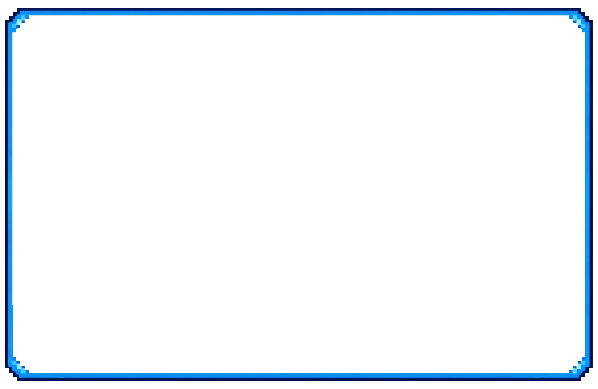
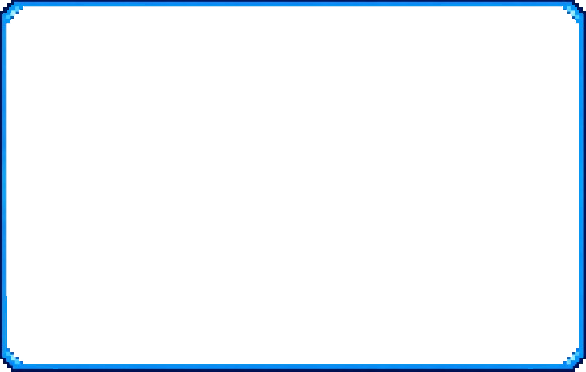
lore actualizado

Changed region(s): [[0.0, 0.0, 1.0, 1.0]]

diff --git a/src/es/deusto/ingenieria/proyecto/scape_room/gui/JDialogHistoria.java b/src/es/deusto/ingenieria/proyecto/scape_room/gui/JDialogHistoria.java
@@ -9,9 +9,13 @@ import java.awt.event.MouseEvent;
 import javax.swing.BorderFactory;
 import javax.swing.JButton;
 import javax.swing.JDialog;
+import javax.swing.JLabel;
 import javax.swing.JPanel;
 import javax.swing.JTextArea;
+import javax.swing.SwingConstants;
 
+import es.deusto.ingenieria.proyecto.scape_room.gui.components.BordePanelesMenu;
+import es.deusto.ingenieria.proyecto.scape_room.gui.components.BordeVentana;
 import es.deusto.ingenieria.proyecto.scape_room.gui.components.JBotonLore;
 
 public class JDialogHistoria extends JDialog{
@@ -31,7 +35,7 @@ public class JDialogHistoria extends JDialog{
 	};
 	private int textoActual = 0;
 	private JPanel textoFlotante;
-	private JTextArea info;
+	private JLabel info;
 	private JButton bAnterior;
 	private JButton bContinuar;
 	private JPanel panelBotones;
@@ -44,28 +48,29 @@ public class JDialogHistoria extends JDialog{
 		setLocationRelativeTo(null);
 		setResizable(false);
 		setModal(true); //hace que mientras salga esta pantalla las demas esten bloqueadas
+		setDefaultCloseOperation(DISPOSE_ON_CLOSE);
 		
 		//Crear ventana
 		textoFlotante = new JPanel(new BorderLayout());
-		textoFlotante.setBackground(Color.BLACK);
-		
-		textoFlotante.setBorder(BorderFactory.createEmptyBorder(60,10,10,10));
+		textoFlotante.setBackground(new Color(12,15,48));
+		textoFlotante.setBorder(new BordeVentana());
 		
 		//Añadir texto al centro de la ventana
-		info = new JTextArea();
-		info.setText(textoLore[textoActual]);
-		info.setFont(new Font("Consolas", Font.PLAIN, 15));
-		info.setBackground(Color.BLACK);
+		info = new JLabel();
+		info.setText("<html><center>" + textoLore[textoActual] + "</center></html>");
+		info.setFont(new Font("Consolas", Font.PLAIN, 17));
 		info.setForeground(Color.WHITE);
-		info.setEditable(false);
-		info.setLineWrap(true);
-		info.setWrapStyleWord(true);
-		info.setBorder(BorderFactory.createEmptyBorder(15, 15, 15, 15));
+
+		info.setHorizontalAlignment(SwingConstants.CENTER);
+		info.setVerticalAlignment(SwingConstants.CENTER);
+		info.setBorder(BorderFactory.createEmptyBorder(15, 20, 15, 20));
+
 		textoFlotante.add(info, BorderLayout.CENTER);
 		
 		//Añadir botones
 		bAnterior = new JBotonLore("anterior");
 		bContinuar = new JBotonLore("continuar");
+		bAnterior.setVisible(false);
 		
 		panelBotones = new JPanel(new BorderLayout());
 		panelBotones.add(bAnterior, BorderLayout.WEST);
@@ -90,9 +95,10 @@ public class JDialogHistoria extends JDialog{
 			public void mouseClicked(MouseEvent e) {
 				if(textoActual>0) {
 					textoActual--;
-					info.setText(textoLore[textoActual]);
+					info.setText("<html><center>" + textoLore[textoActual] + "</center></html>");
 					bContinuar.setText("continuar");
-				}
+					if(textoActual==0) bAnterior.setVisible(false);
+				} 
 				
 			}
 		
@@ -102,12 +108,13 @@ public class JDialogHistoria extends JDialog{
 		bContinuar.addMouseListener(new MouseAdapter() {
 
 			@Override
-			public void mouseClicked(MouseEvent e) {
+			public void mouseClicked(MouseEvent e) {				
 				if(bContinuar.getText().equals("START")) {
 					JDialogHistoria.this.dispose();
 				} else if(textoActual < textoLore.length-1) {
 					textoActual++;
-					info.setText(textoLore[textoActual]);
+					info.setText("<html><center>" + textoLore[textoActual] + "</center></html>");
+					bAnterior.setVisible(true);
 					
 					if(textoActual == textoLore.length-1) {
 						bContinuar.setText("START");

diff --git a/src/es/deusto/ingenieria/proyecto/scape_room/gui/components/JBotonLore.java b/src/es/deusto/ingenieria/proyecto/scape_room/gui/components/JBotonLore.java
@@ -17,7 +17,7 @@ public class JBotonLore extends JButton{
 	private final ImageIcon IMAGEN_BOTON_ORI = new ImageIcon("images/menu_opciones_juego/boton_no_seleccionado.png");
 	private final ImageIcon IMAGEN_BOTON_SEL_ORI = new ImageIcon("images/menu_opciones_juego/boton_seleccionado.png");
 
-	private final Dimension tamañoBoton = new Dimension(150, 40);
+	private final Dimension tamañoBoton = new Dimension(100, 40);
 	
 	private final Font FUENTE = new Font("Bahnschrift", Font.BOLD, 14);
 	
@@ -55,7 +55,7 @@ public class JBotonLore extends JButton{
 		Image botonImgEscalada = IMAGEN_BOTON_ORI.getImage().getScaledInstance(150, 60, Image.SCALE_SMOOTH);
 		imagenBoton = new ImageIcon(botonImgEscalada);
 		
-		Image botonImgEscaladaSel = IMAGEN_BOTON_SEL_ORI.getImage().getScaledInstance(110, 50, Image.SCALE_SMOOTH);
+		Image botonImgEscaladaSel = IMAGEN_BOTON_SEL_ORI.getImage().getScaledInstance(112, 50, Image.SCALE_SMOOTH);
 		imagenBotonSel = new ImageIcon(botonImgEscaladaSel);
 		
 	}

diff --git a/src/es/deusto/ingenieria/proyecto/scape_room/gui/components/BordeVentana.java b/src/es/deusto/ingenieria/proyecto/scape_room/gui/components/BordeVentana.java
@@ -21,7 +21,7 @@ public class BordeVentana extends AbstractBorder{
 
     @Override
     public Insets getBorderInsets(Component c) {
-        return new Insets(45, 30, 45, 30);
+        return new Insets(25, 25, 25, 25);
     }
 
 }
